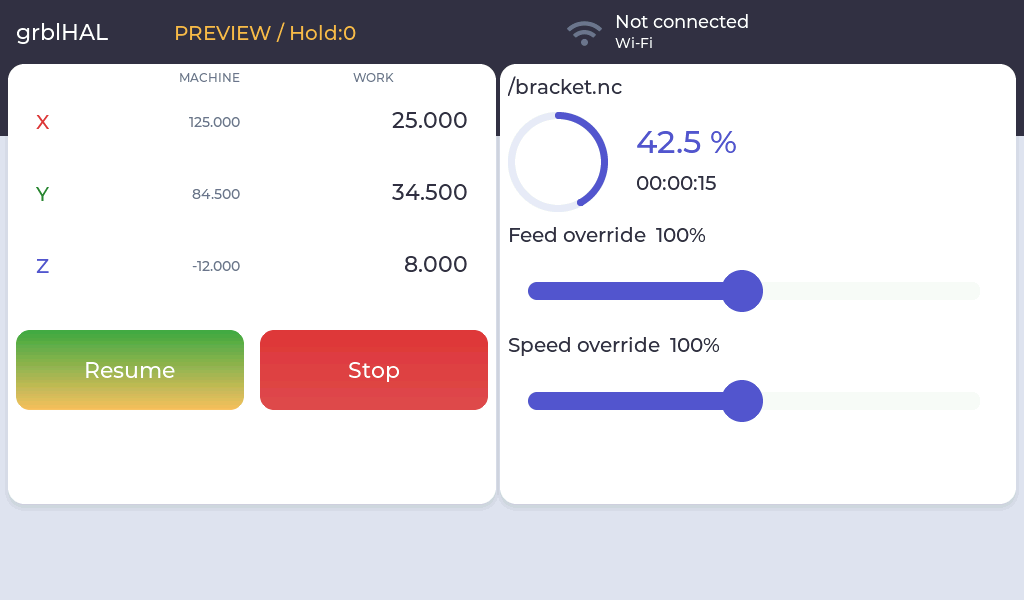
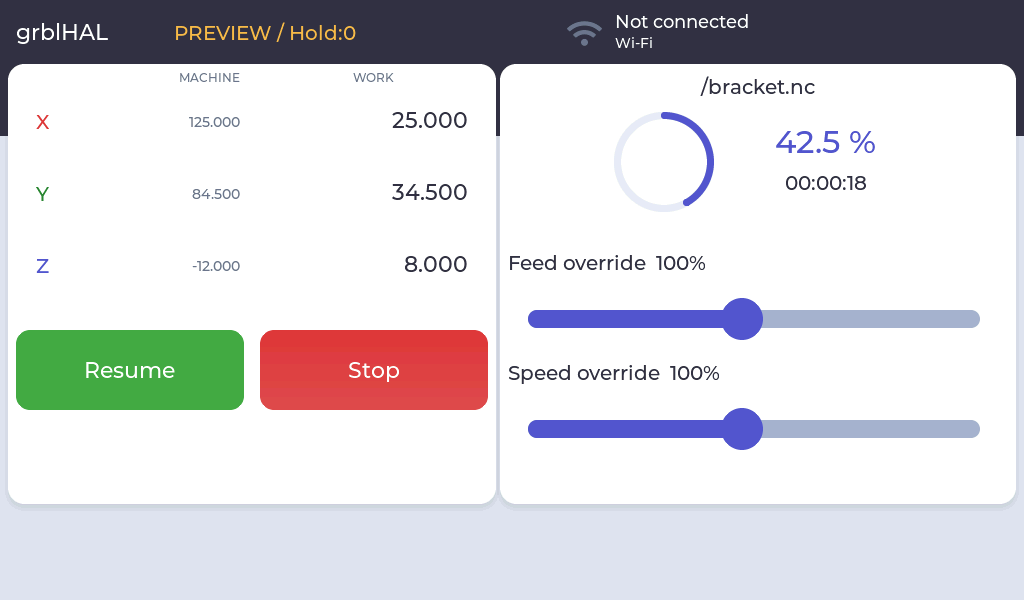
Center job progress and improve override slider visibility

diff --git a/firmware/viewesmart-p4/main/panel_ui.cpp b/firmware/viewesmart-p4/main/panel_ui.cpp
@@ -761,7 +761,8 @@ static lv_obj_t *override_control(const char *title, int y, bool spindle, lv_obj
     lv_obj_set_size(slider, 452, 18);
     lv_slider_set_range(slider, 10, 200);
     lv_slider_set_value(slider, 100, LV_ANIM_OFF);
-    lv_obj_set_style_bg_color(slider, lv_color_hex(LINE), 0);
+    lv_obj_set_style_bg_color(slider, lv_color_hex(0xA5B2C8), 0);
+    lv_obj_set_style_bg_opa(slider, LV_OPA_COVER, 0);
     lv_obj_set_style_bg_color(slider, lv_color_hex(BLUE), LV_PART_INDICATOR);
     lv_obj_set_style_bg_color(slider, lv_color_hex(BLUE), LV_PART_KNOB);
     lv_obj_set_style_pad_all(slider, 12, LV_PART_KNOB);
@@ -993,12 +994,15 @@ static void build_page() {
                demo_click);
     } else if (page == JobPage) {
         file_title = label(body, state.filename, 0, 0, 500, 20);
+        lv_obj_set_style_text_align(file_title, LV_TEXT_ALIGN_CENTER, 0);
         lv_obj_set_height(file_title, 26);
         lv_label_set_long_mode(file_title, LV_LABEL_LONG_DOT);
-        progress_text = label(body, "", 128, 48, 350, 32, BLUE);
-        time_text = label(body, "", 128, 96, 300, 20);
+        progress_text = label(body, "", 238, 48, 160, 32, BLUE);
+        time_text = label(body, "", 238, 96, 160, 20);
+        lv_obj_set_style_text_align(progress_text, LV_TEXT_ALIGN_CENTER, 0);
+        lv_obj_set_style_text_align(time_text, LV_TEXT_ALIGN_CENTER, 0);
         progress = lv_arc_create(body);
-        lv_obj_set_pos(progress, 0, 36);
+        lv_obj_set_pos(progress, 106, 36);
         lv_obj_set_size(progress, 100, 100);
         lv_arc_set_rotation(progress, 270);
         lv_arc_set_bg_angles(progress, 0, 360);
@@ -1009,8 +1013,8 @@ static void build_page() {
         lv_obj_set_style_arc_width(progress, 7, LV_PART_INDICATOR);
         lv_obj_set_style_arc_color(progress, lv_color_hex(LINE), 0);
         lv_obj_set_style_arc_color(progress, lv_color_hex(BLUE), LV_PART_INDICATOR);
-        feed_slider = override_control("Feed override", 148, false, &feed_text);
-        spindle_slider = override_control("Speed override", 258, true, &spindle_text);
+        feed_slider = override_control("Feed override", 176, false, &feed_text);
+        spindle_slider = override_control("Speed override", 286, true, &spindle_text);
 
     } else if (page == CompletePage) {
         lv_obj_set_style_bg_color(body, lv_color_hex(GREEN), 0);
@@ -1103,6 +1107,7 @@ static void refresh(lv_timer_t *) {
     bool held = !strncmp(state.mode, "Hold", 4);
     lv_label_set_text(lv_obj_get_child(job_pause, 0), held ? "Resume" : "Pause");
     lv_obj_set_style_bg_color(job_pause, lv_color_hex(held ? GREEN : AMBER), 0);
+    lv_obj_set_style_bg_grad_dir(job_pause, held ? LV_GRAD_DIR_NONE : LV_GRAD_DIR_VER, 0);
     enable(job_pause,
            state.online && state.status && (!strncmp(state.mode, "Run", 3) || !strcmp(state.mode, "Hold:0")));
     enable(stop_btn, state.online || state.identified);

diff --git a/tools/check-workflow.py b/tools/check-workflow.py
@@ -122,10 +122,10 @@ with serial.Serial(port=None, baudrate=115200, timeout=1, write_timeout=5) as po
         assert "0x21" in command("LAST")
         tap(130, 370)
         assert "0x7E" in command("LAST")
-        command("SWIPE 742 291 790 291")  # Feed override, commit on release
+        command("SWIPE 742 319 790 319")  # Feed override, commit on release
         assert command("LAST").endswith(("0x91", "0x93"))
         time.sleep(.7)
-        command("SWIPE 742 401 698 401")  # Spindle override
+        command("SWIPE 742 429 698 429")  # Spindle override
         assert command("LAST").endswith(("0x9B", "0x9D"))
         shot("panel-job")
         command("RX [MSG:Program End]")
